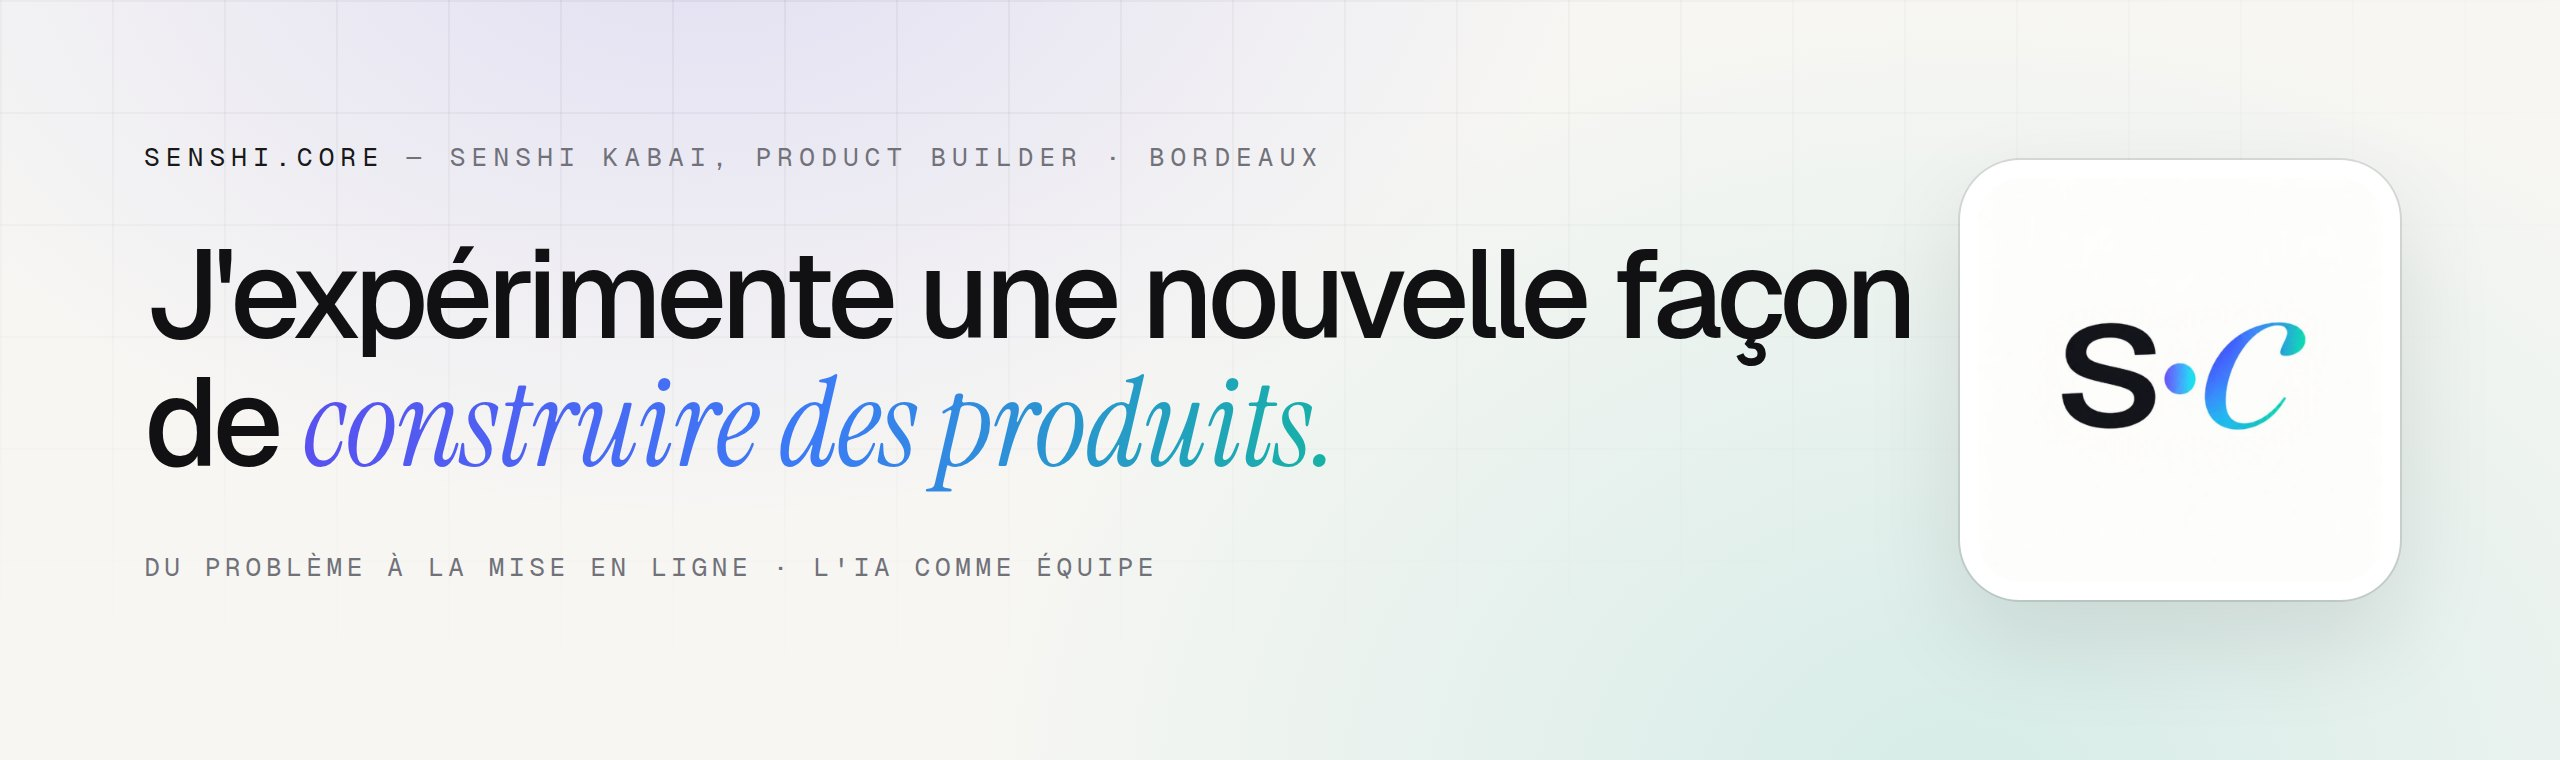
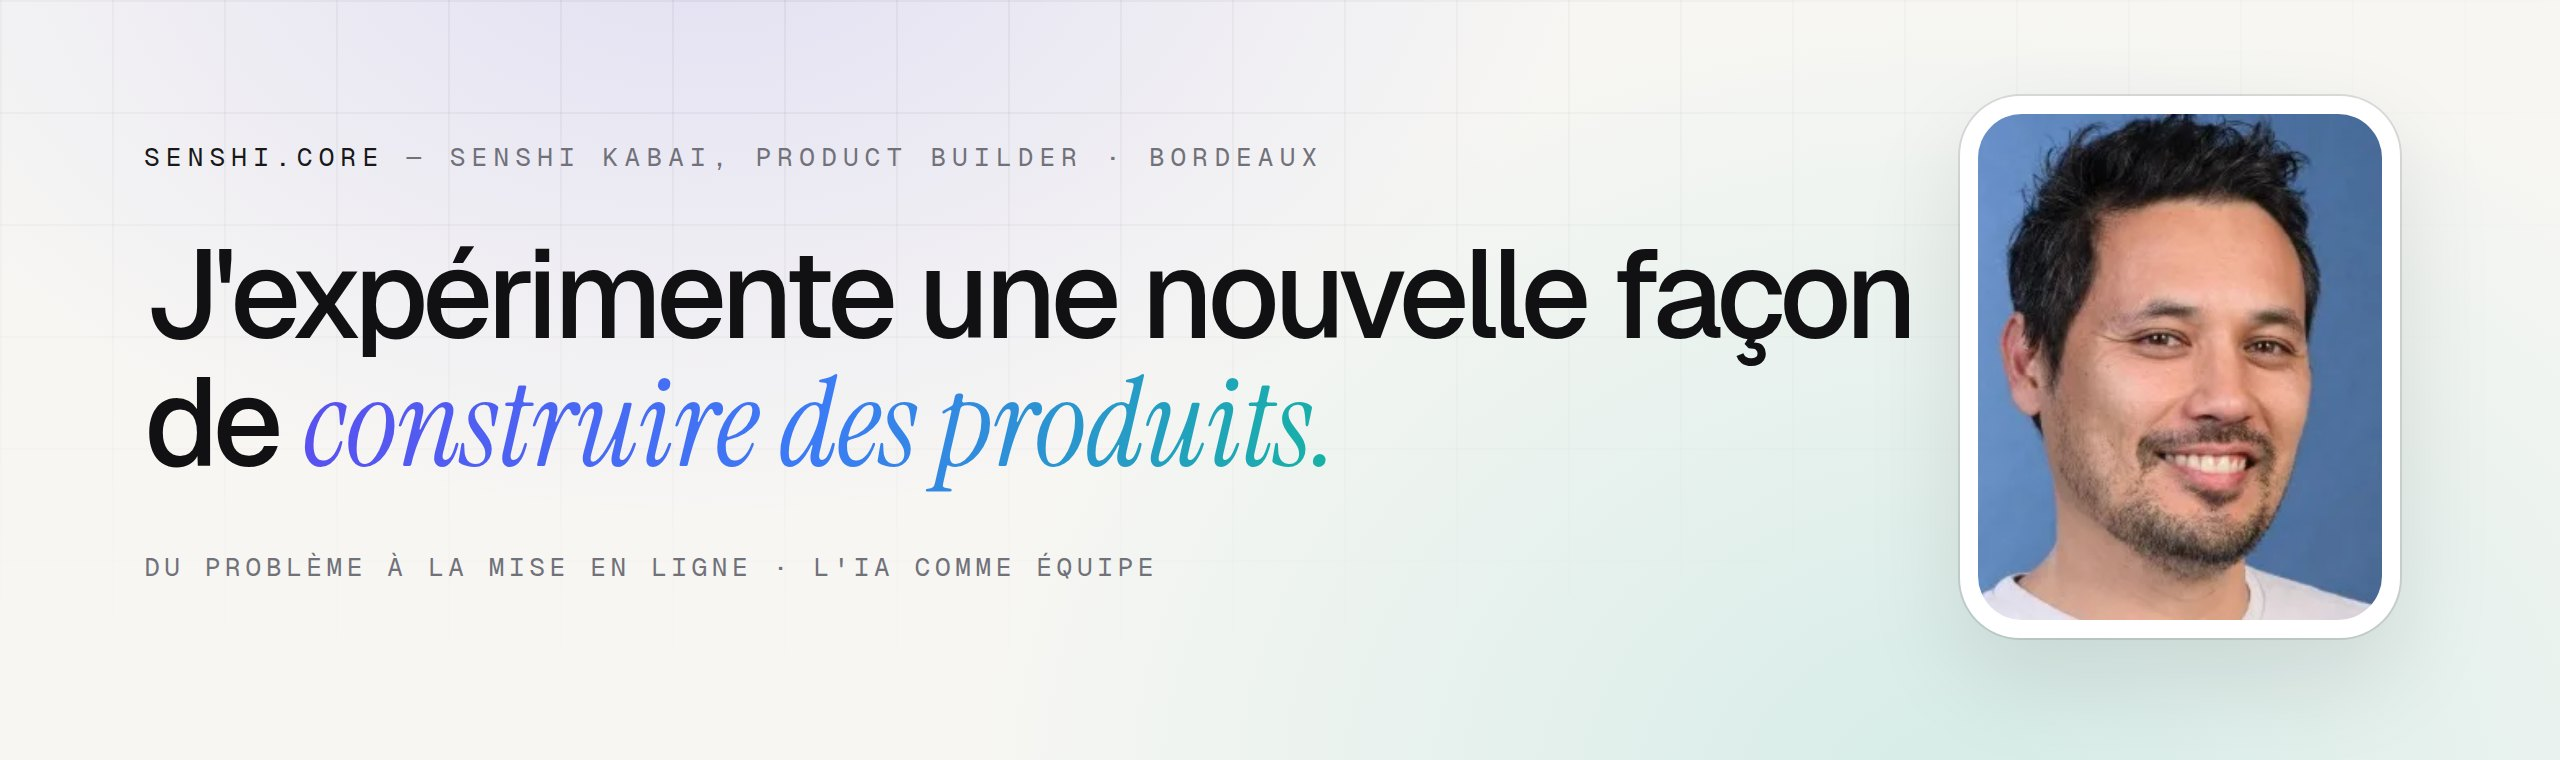
Projet Fable, photo dans l'en-tête, adresse email à jour
Claude-Session: https://claude.ai/code/session_015A1Mfhpz8ACWbnb2M1oD1D

Changed region(s): [[0.75, 0.1211, 0.9375, 0.8474]]

diff --git a/README.md b/README.md
@@ -3,7 +3,7 @@
 <p>
   <a href="https://www.senshicore.com/"><img alt="Portfolio" src="https://img.shields.io/badge/Portfolio-senshicore.com-0b0b0f?style=for-the-badge&labelColor=0b0b0f"></a>
   <a href="https://www.senshicore.com/journal/"><img alt="Carnet de bord" src="https://img.shields.io/badge/Carnet_de_bord-lire-4f46e5?style=for-the-badge&labelColor=0b0b0f"></a>
-  <a href="mailto:sebastienkhai@gmail.com"><img alt="Email" src="https://img.shields.io/badge/Email-m'écrire-0284c7?style=for-the-badge&labelColor=0b0b0f"></a>
+  <a href="mailto:senshikabai@gmail.com"><img alt="Email" src="https://img.shields.io/badge/Email-m'écrire-0284c7?style=for-the-badge&labelColor=0b0b0f"></a>
 </p>
 
 ### Bonjour, je suis Senshi.
@@ -20,25 +20,26 @@
 <table>
 <tr>
 <td width="50%" valign="top"><a href="https://www.senshicore.com/projets/feed-me-odd/"><img src="assets/cards/feed-me-odd.jpg" alt="Feed Me Odd — Le monde est plus étrange que vous ne le pensez." width="100%"></a><br><sub><a href="https://www.feedmeodd.com">Lire une anecdote</a> · <a href="https://www.senshicore.com/projets/feed-me-odd/">Fiche</a></sub></td>
+<td width="50%" valign="top"><a href="https://www.senshicore.com/projets/fable/"><img src="assets/cards/fable.jpg" alt="Fable — Les livres dont on est le héros reviennent, sur votre téléphone." width="100%"></a><br><sub><a href="https://engob.github.io/PlayerZero/">Lire une histoire</a> · <a href="https://www.senshicore.com/projets/fable/">Fiche</a> · <a href="https://github.com/engoB/PlayerZero">Code</a></sub></td>
+</tr>
+<tr>
 <td width="50%" valign="top"><a href="https://www.senshicore.com/projets/multix-arena/"><img src="assets/cards/multix-arena.jpg" alt="Multi X Arena — Et si réviser ses tables devenait un jeu d'arène ?" width="100%"></a><br><sub><a href="https://engob.github.io/MultixArena/">Jouer</a> · <a href="https://www.senshicore.com/projets/multix-arena/">Fiche</a> · <a href="https://github.com/engoB/MultixArena">Code</a></sub></td>
-</tr>
-<tr>
 <td width="50%" valign="top"><a href="https://www.senshicore.com/projets/tbm-tram-radar/"><img src="assets/cards/tbm-tram-radar.jpg" alt="Tram Radar — « Est-ce que je l'ai ? » La réponse, en temps réel." width="100%"></a><br><sub><a href="https://engob.github.io/TBMTramRadar/">Ouvrir l'app</a> · <a href="https://www.senshicore.com/projets/tbm-tram-radar/">Fiche</a> · <a href="https://github.com/engoB/TBMTramRadar">Code</a></sub></td>
+</tr>
+<tr>
 <td width="50%" valign="top"><a href="https://www.senshicore.com/projets/teletravail/"><img src="assets/cards/teletravail.jpg" alt="Télétravail en français — Toutes les offres en télétravail pour francophones, au même endroit." width="100%"></a><br><sub><a href="https://engob.github.io/Remote/">Voir les offres</a> · <a href="https://www.senshicore.com/projets/teletravail/">Fiche</a> · <a href="https://github.com/engoB/Remote">Code</a></sub></td>
-</tr>
-<tr>
 <td width="50%" valign="top"><a href="https://www.senshicore.com/projets/proofshot/"><img src="assets/cards/proofshot.jpg" alt="ProofShot — Capturer, annoter, partager — en 30 secondes." width="100%"></a><br><sub><a href="https://engob.github.io/proofshot/">Découvrir l'extension</a> · <a href="https://www.senshicore.com/projets/proofshot/">Fiche</a> · <a href="https://github.com/engoB/proofshot">Code</a></sub></td>
+</tr>
+<tr>
 <td width="50%" valign="top"><a href="https://www.senshicore.com/projets/auraplan/"><img src="assets/cards/auraplan.jpg" alt="AuraPlan Studio — Roadmap, kanban, planning et notes. Une seule page." width="100%"></a><br><sub><a href="https://engob.github.io/EngoJira/">Essayer</a> · <a href="https://www.senshicore.com/projets/auraplan/">Fiche</a> · <a href="https://github.com/engoB/EngoJira">Code</a></sub></td>
-</tr>
-<tr>
 <td width="50%" valign="top"><a href="https://www.senshicore.com/projets/pokevault/"><img src="assets/cards/pokevault.jpg" alt="PokéVault — Sa collection de cartes Pokémon, toujours dans la poche." width="100%"></a><br><sub><a href="https://engob.github.io/PokeTest/">Ouvrir le classeur</a> · <a href="https://www.senshicore.com/projets/pokevault/">Fiche</a> · <a href="https://github.com/engoB/PokeTest">Code</a></sub></td>
+</tr>
+<tr>
 <td width="50%" valign="top"><a href="https://www.senshicore.com/projets/oasis/"><img src="assets/cards/oasis.jpg" alt="OASIS — The Hunt — Chaque jour une énigme. Chaque bonne réponse ouvre la suivante." width="100%"></a><br><sub><a href="https://engob.github.io/chasse-oasis/">Entrer dans l'OASIS</a> · <a href="https://www.senshicore.com/projets/oasis/">Fiche</a> · <a href="https://github.com/engoB/chasse-oasis">Code</a></sub></td>
-</tr>
-<tr>
 <td width="50%" valign="top"><a href="https://www.senshicore.com/projets/diamond-foil/"><img src="assets/cards/diamond-foil.jpg" alt="Diamond Foil — Ouvrir des boosters de baseball, avec les vraies stats de la MLB." width="100%"></a><br><sub><a href="https://engob.github.io/DiamondLB/">Ouvrir un booster</a> · <a href="https://www.senshicore.com/projets/diamond-foil/">Fiche</a> · <a href="https://github.com/engoB/DiamondLB">Code</a></sub></td>
-<td width="50%" valign="top"><a href="https://www.senshicore.com/projets/site-evenement/"><img src="assets/cards/site-evenement.jpg" alt="Site d'événement — Votre site de mariage en dix minutes, sans abonnement." width="100%"></a><br><sub><a href="https://engob.github.io/site-evenement/">Voir la démo (mot de passe : demo)</a> · <a href="https://www.senshicore.com/projets/site-evenement/">Fiche</a> · <a href="https://github.com/engoB/site-evenement">Code</a></sub></td>
 </tr>
 <tr>
+<td width="50%" valign="top"><a href="https://www.senshicore.com/projets/site-evenement/"><img src="assets/cards/site-evenement.jpg" alt="Site d'événement — Votre site de mariage en dix minutes, sans abonnement." width="100%"></a><br><sub><a href="https://engob.github.io/site-evenement/">Voir la démo (mot de passe : demo)</a> · <a href="https://www.senshicore.com/projets/site-evenement/">Fiche</a> · <a href="https://github.com/engoB/site-evenement">Code</a></sub></td>
 <td width="50%" valign="top"><a href="https://www.senshicore.com/projets/planning-classe/"><img src="assets/cards/planning-classe.jpg" alt="Planning de classe — L'emploi du temps qui sait combien de temps il reste avant la sonnerie." width="100%"></a><br><sub><a href="https://engob.github.io/planning-classe/">Voir la démo</a> · <a href="https://www.senshicore.com/projets/planning-classe/">Fiche</a> · <a href="https://github.com/engoB/planning-classe">Code</a></sub></td>
 </tr>
 </table>
